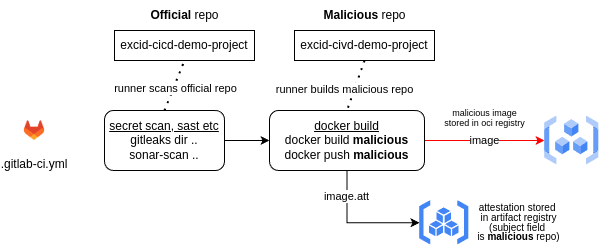
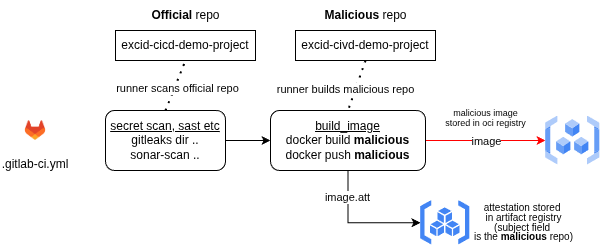
readme attacks

diff --git a/attacks/README.ATTACKS.md b/attacks/README.ATTACKS.md
@@ -1,25 +1,24 @@
-## Attack scenarios & Mitigations using Open Policy Agent
+# Attack scenarios & Mitigations
 
-In this repo we also consider how attestations protect from specific attack scenarios. This is why we showcase two different yaml files:
-- one for normal operating conditions (devprivsecops.gitlab-ci.yml)
-- one which is vulnerable (.gitlab-ci.yml)
+In this repo we also consider how attestations protect from specific attack scenarios. We provide en extra yaml file which is vulnerable (`vulnerable.gitlab-ci.yml`)
 
-*Note*: GitLab CI can only have **one** `.gitlab-ci.yml` file in the repo which runs the pipeline, so rename the file you want to run accordingly.
+***Note***: GitLab CI can only have **one** `.gitlab-ci.yml` file in the repo which runs the pipeline and **must** be in the project root direct, so rename the file you want to run accordingly, and backup the old one.
 
-The purpose is to show how a vulnerable `.gitlab-ci.yml` file can be exploited by an adversary. By doing this, we emphasize the importance of the verification of attestations. We use `Open Policy Agent (OPA)` and write policies in REGO to verify the attestations. More details about `opa` and its functionality see the `policy` folder in the repo.
+The purpose is to show how a vulnerable `.gitlab-ci.yml` file can be exploited, and how attestations and signatures protect from such attacks. We use *Kyverno* to verify the attestations. More details about *Kyverno* and its functionality see the folder *Kyverno* in the repo.
 
-For example, if our repo's name is `excid-cicd-demo-project`, the attacker can create another repo which is typosquatted, like `excid-civd-demo-project`, and upload a pipeline which executes `docker build excid-civd-demo-project`, and thus, builds and pushes a malicious copy of our project.
+Let's consider the following example: if our repo's name is `excid-cicd-demo-project`, the attacker can create another repo which is typosquatted, like `excid-civd-demo-project`, and upload a pipeline which executes `docker build excid-civd-demo-project`, and thus, builds and pushes a malicious copy of our project.
 
-Attacks covered in this repo are related to the threats mentioned in the [SLSA specification threat list](https://slsa.dev/spec/v1.0/threats-overview), plus some dependency attacks just to showcase how the SBOM attestation can protect from vulnerable dependencies, typosquatted dependencies etc.
+Attacks covered in this repo are mostly related to the threats mentioned in the [SLSA specification threat list](https://slsa.dev/spec/v1.0/threats-overview), one dependency attack to showcase how the SBOM attestation can protect from vulnerable dependencies, typosquatted dependencies etc, plus one attack regarding signing from an unauthorized party.
 
-Scenarios:
+Scenarios considered:
 
 | Scenario                                         | Description                                                                                                                                                            | Remediation                                                                                                                 |
 |--------------------------------------------------|------------------------------------------------------------------------------------------------------------------------------------------------------------------------|-----------------------------------------------------------------------------------------------------------------------------|
-| Build from malicious source (another repository) | We have a typosquatted version of the project as mentioned above, which just disables the https server (only serves http) and output a message "Malicious" in the HTML | In the verification policy, we need to explicitly check if the repo in the predicate is equal to the official repo          |
-| Build from previous commit hash                  | Instead of building from the current commit, the pipeline builds from a previous version which is vulnerable.                                                          | Always check that the package/container image built, corresponds to the latest commit hash                                  |
-| Build from non-registered/malicious runner       | Build with a runner that is not registered in my infrastructure (mostly for cases including self-hosted runners)                                                       | Give OPA some data input, which is a list of registered runners (their tokens)                                              |
+| Build from malicious source (another repository) | We have a typosquatted version of the project as mentioned above, which just outputs a message "Malicious" in the HTML served | In the verification policy of the SLSA provenance attestation, explicitly check if the repo in the predicate is equal to the official repo          |
+| Build from previous commit hash                  | Instead of building from the latest commit, the pipeline builds from a previous version which is vulnerable.                                                          | In the verification policy of the SLSA provenance attestation, check that the package/container image built, corresponds to the latest commit hash                                  |
 | Build with compromised dependency                | Import a malicious dependency                                                                                                                                          | Generate SBOM attestation, and check against names and versions of dependencies that are highly significant for the project |
+| Unauthorized build/signing                | The image was built and signed by an unauthorized entity                                                                                                                                          | When verifying the container image signature check that only authorized entities and OIDC issuers participated in the signing (e.g., only GitLab runners can sign with OIDC issuer gitlab.com, so an image cannot be signed by some enitity **@gmail.com*) |
+<!-- | Build from non-registered/malicious runner       | Build with a runner that is not registered in my infrastructure (mostly for cases including self-hosted runners)                                                       | In the verification policy of the SLSA provenance attestation, have a list of registered runners (their tokens) and check if the attestation contains a name that is in this list                                              | -->
 
 
 Other possible scenarios (out of scope):
@@ -27,54 +26,54 @@ Other possible scenarios (out of scope):
 - Submit unauthorized changes in source code -> two-person review
 - Compromise source repo -> branch protection, harden VCS
 
-### Scenario 1
+## Scenario 1
 
-Build from malicious source (different repository than the intended). In this scenario, we consider that someone created a repoository with a different name than the official one, and modifies the CI pipeline so that it builds the code from the malicious repository.
+Build from malicious source (different repository than the intended). In this scenario, we consider that someone created a repoository with a different name than the official one, and modifies the original CI pipeline so that it builds the code from the malicious repository.
 
-![alt text](/assets/attack1_mal_repo.png)
+![alt text](/assets/attack1_mal_repo.drawio.png)
 
 Now, because SLSA defines that the **build platform is trusted**, we consider the attestation produced as an **honest** document. 
 <ins>Remember</ins>, attestations are signed documents, which means that if someone tampered with it (e.g., change `subject` field in the attestation) this will be visible.
 
-Next, imagine the CD process which runs after the CI. These are two independent procedures. Within the CD, we use tools like `cosign` to verify the authenticity and integrity of the attestation. After this, we use `opa` to verify fields of the attestation against our own expectations.
+After the malicious pipeline has run, when verifying, we can run some checks like the following: 
 
-What we can do with OPA is load it with our own custom data:
-
-![alt text](/assets/attack1_mal_repo_opa.png)
-
-When verifying, we can run some checks like the following: 
-
-![alt text](/assets/attack1_mal_repo_opa2.png)
+![alt text](/assets/attack1_mal_repo_kyverno.drawio.png)
 
 If the check above succeeds, then the repo is the original one. Otherwise, we fail the CD and do not deploy the container image.
 
-### Scenario 2
+## Scenario 2
 
-Contrary to the previous one, now the attackers builds the same project - the official one - but from a previous version which is known to have vulnerabilities.
+Contrary to the previous one, now the attackers build the same project - the official one - but from a previous version which is known to have vulnerabilities.
 
-![alt text](/assets/attack2_old_version.png)
+![alt text](/assets/attack2_old_version.drawio.png)
 
-OPA will pull the attestation and check against the commit hash. <ins>*Note*</ins> that OPA has the [capability](https://www.openpolicyagent.org/docs/latest/policy-reference/#http) to make HTTP requests to external services and ask for data.
+In the policy there should be a check included that looks for the commit hash. It must ensure that it is always equal to the latest commit.
 
-![alt text](/assets/attack1_mal_repo_opa2.png)
+<!-- ## Scenario 3
 
-### Scenario 3
-
-Another threat is building from an unknown build system. If an adversary writes a malicious GitLab runner, run it within the infrastructure and register it in the repository, then this runner can take on jobs submitted by legit users and act illegally.
+Another threat is building from an unknown build system. If an adversary deploys a malicious GitLab runner, within the infrastructure and register it with the repository, then this runner can take on jobs submitted by legit users and act illegally.
 
 Why is there a need to worry for that? Don't we trust the build platform? Yes, but, it has been [reported](https://frichetten.com/blog/abusing-gitlab-runners/) for GitLab runners that there is a race condition vulnerability where malicious runners can request to run submitted pipelines before legit ones. Obviously, this runner can then run whatever pipeline it wants, and upload a malicious container image.
 
 Having that in mind, we can verify two things:
 1. verify all binaries pre-installation (out of scope for artifact attestations)
-2. verifying that the GitLab runner token is indeed created by a trusted entity, and OPA knows about this token
+2. verifying that the GitLab runner token is indeed created by a trusted entity, and Kyverno knows about this token
 
+Attestation-wise, in the provenance attestation we can check the field of -->
 
-### Scenario 4
+## Scenario 3
 
 Another way attestations can protect from attacks, is by creating the SBOM attestation. This way, we have an authenticated document stating that some dependencies exist in our codebase.
-
-If some dependency is known to be vulnerable or malicious, we can capture it in the SBOM and drop CD.
+If some dependency is known to be vulnerable or malicious, we can capture it in the SBOM and stop Continuous Deployment.
 
 ![alt text](/assets/attack4_sbom.png)
 
-We can load a CVE database into OPA and check the SBOM against this knowledge base.
+Generally, the SBOM is a very big json file and because some dependencies are loaded transitively, it is not easy/possible to check all of them. So we can pick a handful of them, and craft a policy that checks only for nitpicked dependencies. For example, in our express-js server we can have Kyverno check that the version of express-js (a core library included) is greater than 4.
+
+## Scenario 4
+
+We require our images to be signed during Continuous Integration. This ensures integrity and authenticity. If images are unsigned, anyone can make malicious changes to the image and they will be undetected. So now with container signatures, we require some trusted entities (e.g., the GitLab runner) to sign the image.
+
+![alt-text](../assets/attack4_unsigned_image.jpg)
+
+The policy engine should ensure that the image is signed by the appropriate party.
